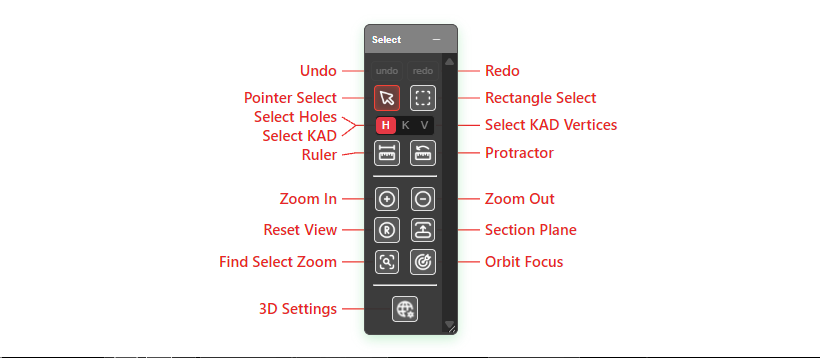
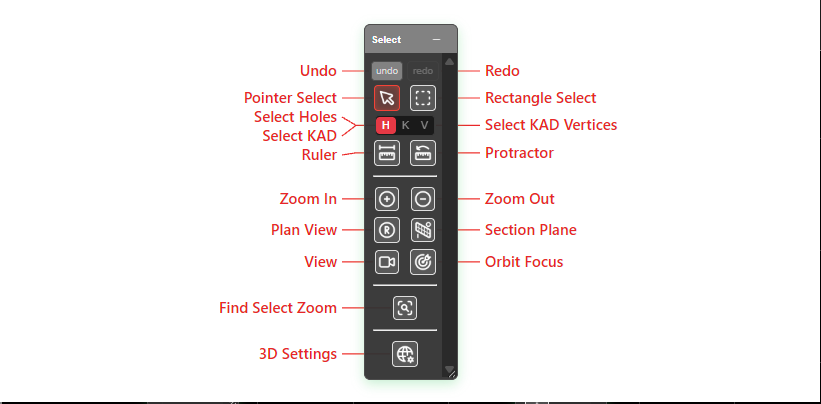
Toolbar images: Select and Surface callouts redrawn, View strip picture
Captured by RED for GREEN's pages (its session had no browser tab):
- LabledSelectToolbar.png: now shows View after Section Plane.
- SurfacesToolbar.png: Alignment, Facets and Fragments gone (Cloud toolbar), Void Mesh last.
- ViewStrip.png (new), shown in the Select toolbar's View Strip section.
The "earlier picture" captions are removed.

Claude-Session: https://claude.ai/code/session_01KXytti7eeSWXp72o4Mvms8

Changed region(s): [[0.2439, 0.0615, 0.7622, 0.9525], [0.0, 0.9832, 1.0, 1.0]]

diff --git a/reference/select-toolbar.md b/reference/select-toolbar.md
@@ -9,7 +9,7 @@ Despite the name, this toolbar is not only about selection — undo/redo, zoom, 
 ## Toolbar Overview
 
 ![Labelled Select toolbar](../screenshots/LabledSelectToolbar.png)
-*The Select toolbar with its controls labelled. An earlier picture: it does not yet show the **View** button, which sits after **Section Plane**.*
+*The Select toolbar with its controls labelled.*
 
 The Select toolbar contains the following controls:
 
@@ -217,6 +217,8 @@ See [3D View — Section Plane](3d-tools.md#section-plane) for every option, and
 The **View** button opens a small one-row dialog, **View**, holding the camera keys. They
 are the same keys as the view bar in the Section Plane dialog, plus **R** for Reset View,
 so you can turn the camera without opening the Section Plane dialog.
+
+![The View strip: the N, E, S, W, T, B, A and R keys in one row](../screenshots/ViewStrip.png)
 
 | Key | Turns the camera to |
 |-----|---------------------|

diff --git a/surfaces/surfaces-toolbar.md b/surfaces/surfaces-toolbar.md
@@ -3,8 +3,7 @@
 The **Surface** toolbar builds, cuts, combines and repairs triangulated surfaces and solids.
 Open it from its tab on the right edge of the window.
 
-![Labelled Surface toolbar: surface tools on top, the repair row, then the point-cloud tools](../screenshots/SurfacesToolbar.png)
-*An earlier picture: the three point-cloud tools at the bottom have since moved to the Cloud toolbar, leaving Void Mesh.*
+![Labelled Surface toolbar: surface tools on top, the repair row, then Void Mesh](../screenshots/SurfacesToolbar.png)
 
 The buttons sit in three groups: the surface tools, then — below the first divider — the two
 repair tools, then — below the second — **Void Mesh**.
